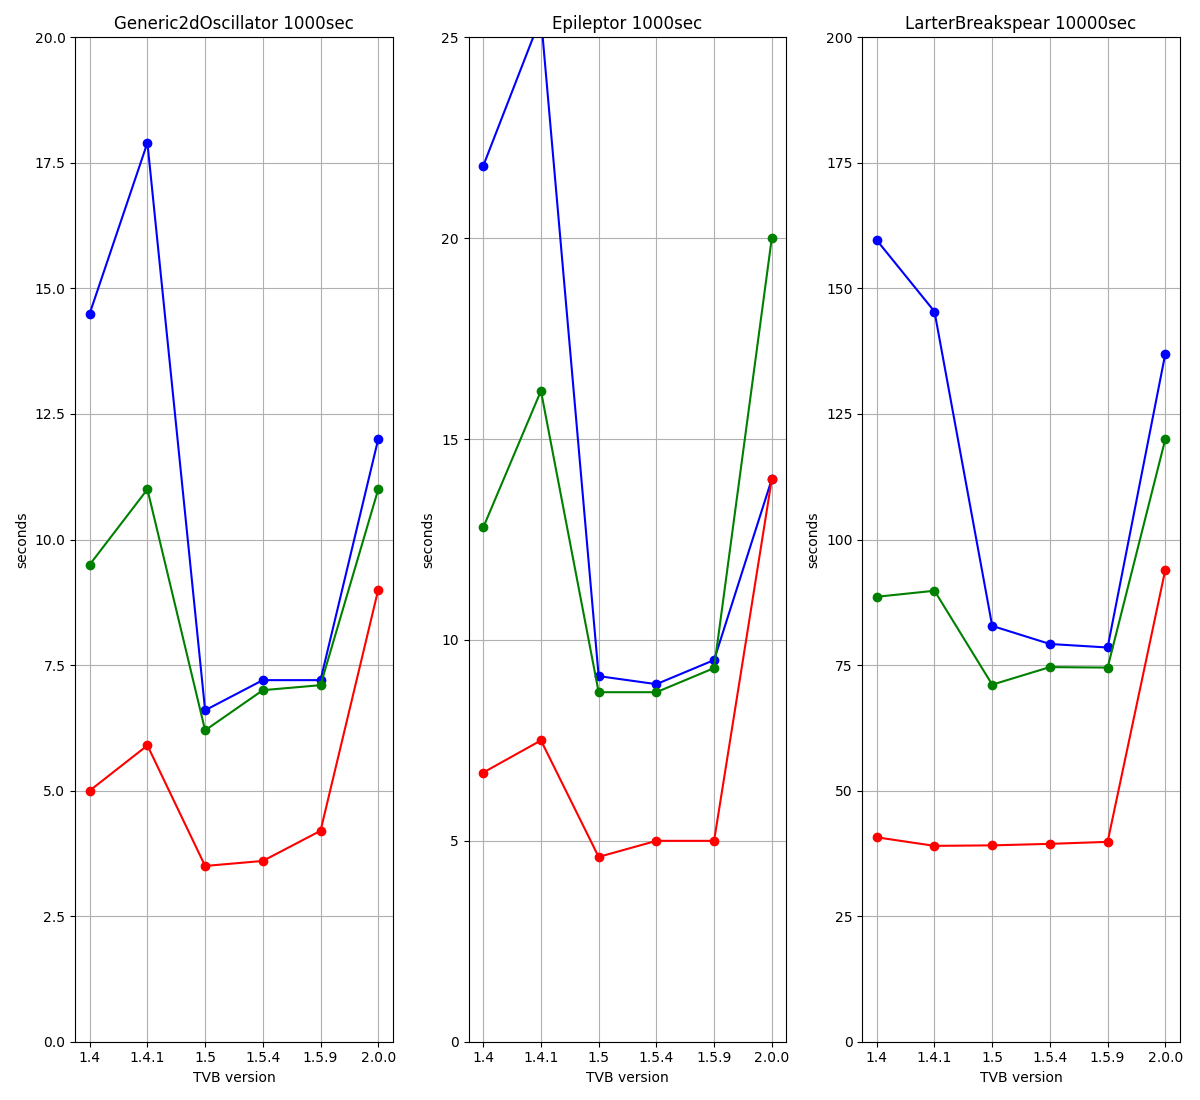
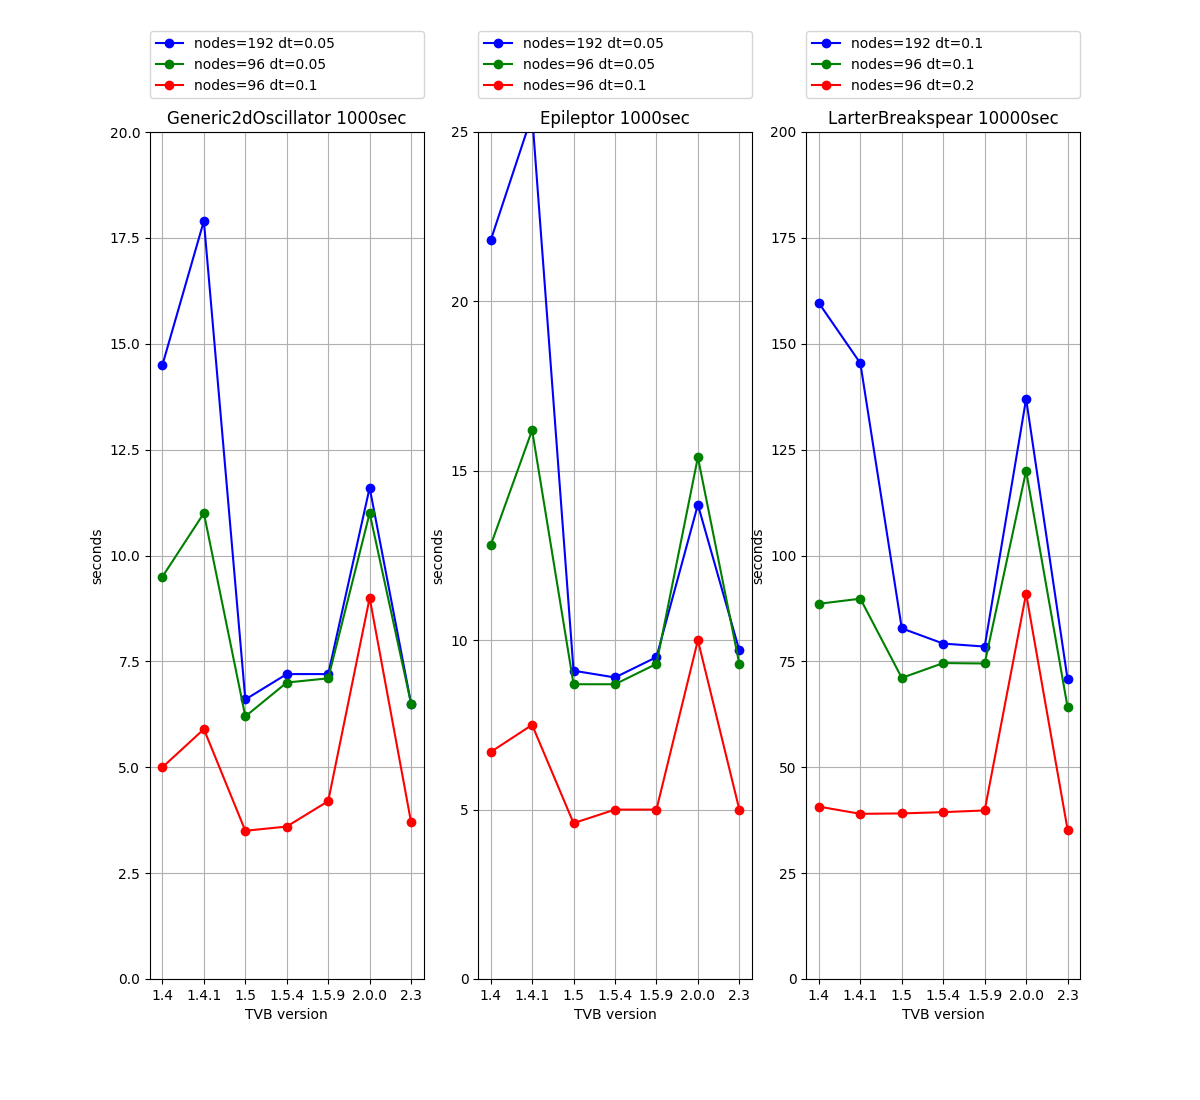
TVB-2528. Prepare figures.

diff --git a/tvb_documentation/doc_site/benchmarks/generate_benchmark_img.py b/tvb_documentation/doc_site/benchmarks/generate_benchmark_img.py
@@ -79,24 +79,24 @@ def plot_neotraits():
     figure.savefig("../../_static/benchmarks-neotraits.png")
 
 
-x = [1, 2, 3, 4, 5, 6]
-x_labels = ["1.4", "1.4.1", "1.5", "1.5.4", "1.5.9", "2.0.0"]
+x = [1, 2, 3, 4, 5, 6, 7]
+x_labels = ["1.4", "1.4.1", "1.5", "1.5.4", "1.5.9", "2.0.0", "2.3"]
 figure = pyplot.figure(figsize=(12, 11))
 
 plot(131, "Generic2dOscillator 1000sec", 20,
-     [14.5, 17.9, 6.6, 7.2, 7.2, 11.6], "nodes=192 dt=0.05",
-     [9.5, 11.0, 6.2, 7.0, 7.1, 11], "nodes=96 dt=0.05",
-     [5, 5.9, 3.5, 3.6, 4.2, 9], "nodes=96 dt=0.1")
+     [14.5, 17.9, 6.6, 7.2, 7.2, 11.6, 6.5], "nodes=192 dt=0.05",
+     [9.5, 11.0, 6.2, 7.0, 7.1, 11, 6.5], "nodes=96 dt=0.05",
+     [5, 5.9, 3.5, 3.6, 4.2, 9, 3.7], "nodes=96 dt=0.1")
 
 plot(132, "Epileptor 1000sec", 25,
-     [21.8, 25.5, 9.1, 8.9, 9.5, 14], "nodes=192 dt=0.05",
-     [12.8, 16.2, 8.7, 8.7, 9.3, 15.4], "nodes=96 dt=0.05",
-     [6.7, 7.5, 4.6, 5.0, 5.0, 10], "nodes=96 dt=0.1")
+     [21.8, 25.5, 9.1, 8.9, 9.5, 14, 9.7], "nodes=192 dt=0.05",
+     [12.8, 16.2, 8.7, 8.7, 9.3, 15.4, 9.3], "nodes=96 dt=0.05",
+     [6.7, 7.5, 4.6, 5.0, 5.0, 10, 5.0], "nodes=96 dt=0.1")
 
 plot(133, "LarterBreakspear 10000sec", 200,
-     [159.6, 145.4, 82.8, 79.2, 78.5, 137], "nodes=192 dt=0.1",
-     [88.6, 89.8, 71.1, 74.6, 74.5, 120], "nodes=96 dt=0.1",
-     [40.7, 39.0, 39.1, 39.4, 39.8, 91], "nodes=96 dt=0.2")
+     [159.6, 145.4, 82.8, 79.2, 78.5, 137, 70.8], "nodes=192 dt=0.1",
+     [88.6, 89.8, 71.1, 74.6, 74.5, 120, 64.2], "nodes=96 dt=0.1",
+     [40.7, 39.0, 39.1, 39.4, 39.8, 91, 35.3], "nodes=96 dt=0.2")
 
 pyplot.show()
 figure.savefig("../../_static/benchmarks-evolution-mac.png")

diff --git a/tvb_documentation/doc_site/benchmarks/tvb_2.3_mac.rst b/tvb_documentation/doc_site/benchmarks/tvb_2.3_mac.rst
@@ -1,0 +1,162 @@
+.. _benchmark_tvb_23:
+
+
+********************
+Benchmarks - TVB 2.3
+********************
+
+
++------------+-----------------------------------------------------------------+
+|                               System Info                                    |
++============+=================================================================+
+|OS          | OS X High Sierra  10.13.3                                            |
++------------+-----------------------------------------------------------------+
+|Memory      | 8GB DDR3  @1867MHz                                             |
++------------+-----------------------------------------------------------------+
+|Processor   | 4 x 2.9 GHz Intel Core i5                                       |
++------------+-----------------------------------------------------------------+
+|TVB version | 2.3 #16219 - Mac x64                                            |
++------------+-----------------------------------------------------------------+
+|Run on      | 28.05.2021                                                      |
++------------+-----------------------------------------------------------------+
+
+
+A standardized set of benchmarks follows. All unspecified parameters have the default values.
+For parameters that influence running times significantly at least two values were used.
+The local model parameters are usually irrelevant for the purpose of benchmarking.
+
++--------------------+------------------------------------+
+| Case A                                                  |
++====================+====================================+
+|Model               | Generic2dOscillator                |
++--------------------+------------------------------------+
+|Coupling            | Linear                             |
++--------------------+------------------------------------+
+|Dimension           | 2 state variables                  |
++--------------------+------------------------------------+
+|Integration method  | HeunDeterministic                  |
++--------------------+------------------------------------+
+|Simulation Length   | 1000 ms                            |
++--------------------+------------------------------------+
+
+
++------------------------+--------+-------+-----------+---------+-----------+
+|      Results                                                              |
++------------------------+--------+-------+-----------+---------+-----------+
+|        Model           | Sim.   | Nodes |Conduction | time    | Execution |
+|                        | Length |       |speed      | step    | time      |
++------------------------+--------+-------+-----------+---------+-----------+
+|                        |    (ms)|       |    (mm/ms)|     (ms)| min:sec   |
++========================+========+=======+===========+=========+===========+
+|    Generic2dOscillator |   1000 |    68 |      30.0 |     0.1 |   00:03.2 |
++------------------------+--------+-------+-----------+---------+-----------+
+|    Generic2dOscillator |   1000 |    68 |       3.0 |     0.1 |   00:03.1 |
++------------------------+--------+-------+-----------+---------+-----------+
+|    Generic2dOscillator |   1000 |    68 |      30.0 |    0.05 |   00:05.5 |
++------------------------+--------+-------+-----------+---------+-----------+
+|    Generic2dOscillator |   1000 |    68 |       3.0 |    0.05 |   00:05.5 |
++------------------------+--------+-------+-----------+---------+-----------+
+|    Generic2dOscillator |   1000 |    96 |      30.0 |     0.1 |   00:03.7 |
++------------------------+--------+-------+-----------+---------+-----------+
+|    Generic2dOscillator |   1000 |    96 |       3.0 |     0.1 |   00:03.7 |
++------------------------+--------+-------+-----------+---------+-----------+
+|    Generic2dOscillator |   1000 |    96 |      30.0 |    0.05 |   00:06.7 |
++------------------------+--------+-------+-----------+---------+-----------+
+|    Generic2dOscillator |   1000 |    96 |       3.0 |    0.05 |   00:06.5 |
++------------------------+--------+-------+-----------+---------+-----------+
+|    Generic2dOscillator |   1000 |   192 |      30.0 |     0.1 |   00:03.7 |
++------------------------+--------+-------+-----------+---------+-----------+
+|    Generic2dOscillator |   1000 |   192 |       3.0 |     0.1 |   00:03.6 |
++------------------------+--------+-------+-----------+---------+-----------+
+|    Generic2dOscillator |   1000 |   192 |      30.0 |    0.05 |   00:06.7 |
++------------------------+--------+-------+-----------+---------+-----------+
+|    Generic2dOscillator |   1000 |   192 |       3.0 |    0.05 |   00:06.5 |
++------------------------+--------+-------+-----------+---------+-----------+
+
+
++--------------------+------------------------------------+
+| Case B                                                  |
++====================+====================================+
+|Model               | Epileptor                          |
++--------------------+------------------------------------+
+|Coupling            | Linear                             |
++--------------------+------------------------------------+
+|Dimension           | 6 state variables                  |
++--------------------+------------------------------------+
+|Integration method  | HeunDeterministic                  |
++--------------------+------------------------------------+
+|Simulation Length   | 1000 ms                            |
++--------------------+------------------------------------+
+
+
++------------------------+--------+-------+-----------+---------+-----------+
+|      Results                                                              |
++------------------------+--------+-------+-----------+---------+-----------+
+|        Model           | Sim.   | Nodes |Conduction | time    | Execution |
+|                        | Length |       |speed      | step    | time      |
++------------------------+--------+-------+-----------+---------+-----------+
+|                        |    (ms)|       |    (mm/ms)|     (ms)| min:sec   |
++========================+========+=======+===========+=========+===========+
+|              Epileptor |   1000 |    68 |      30.0 |     0.1 |   00:03.9 |
++------------------------+--------+-------+-----------+---------+-----------+
+|              Epileptor |   1000 |    68 |       3.0 |     0.1 |   00:03.9 |
++------------------------+--------+-------+-----------+---------+-----------+
+|              Epileptor |   1000 |    68 |      30.0 |    0.05 |   00:07.1 |
++------------------------+--------+-------+-----------+---------+-----------+
+|              Epileptor |   1000 |    68 |       3.0 |    0.05 |   00:07.2 |
++------------------------+--------+-------+-----------+---------+-----------+
+|              Epileptor |   1000 |    96 |      30.0 |     0.1 |   00:05.1 |
++------------------------+--------+-------+-----------+---------+-----------+
+|              Epileptor |   1000 |    96 |       3.0 |     0.1 |   00:05.0 |
++------------------------+--------+-------+-----------+---------+-----------+
+|              Epileptor |   1000 |    96 |      30.0 |    0.05 |   00:09.4 |
++------------------------+--------+-------+-----------+---------+-----------+
+|              Epileptor |   1000 |    96 |       3.0 |    0.05 |   00:09.3 |
++------------------------+--------+-------+-----------+---------+-----------+
+|              Epileptor |   1000 |   192 |      30.0 |     0.1 |   00:05.1 |
++------------------------+--------+-------+-----------+---------+-----------+
+|              Epileptor |   1000 |   192 |       3.0 |     0.1 |   00:05.2 |
++------------------------+--------+-------+-----------+---------+-----------+
+|              Epileptor |   1000 |   192 |      30.0 |    0.05 |   00:09.7 |
++------------------------+--------+-------+-----------+---------+-----------+
+|              Epileptor |   1000 |   192 |       3.0 |    0.05 |   00:09.7 |
++------------------------+--------+-------+-----------+---------+-----------+
+
+
++--------------------+------------------------------------+
+| Case C                                                  |
++====================+====================================+
+|Model               | LarterBreakspear                   |
++--------------------+------------------------------------+
+|Coupling            | HyperbolicTangent                  |
++--------------------+------------------------------------+
+|Dimension           | 3 state variables                  |
++--------------------+------------------------------------+
+|Integration method  | HeunDeterministic                  |
++--------------------+------------------------------------+
+|Simulation Length   | 10 sec                             |
++--------------------+------------------------------------+
+|Conduction speed    | 10 mm/ms                           |
++--------------------+------------------------------------+
+
+
++------------------------+--------+-------+-----------+---------+-----------+
+|      Results                                                              |
++------------------------+--------+-------+-----------+---------+-----------+
+|        Model           | Sim.   | Nodes |Conduction | time    | Execution |
+|                        | Length |       |speed      | step    | time      |
++------------------------+--------+-------+-----------+---------+-----------+
+|                        |    (ms)|       |    (mm/ms)|     (ms)| min:sec   |
++========================+========+=======+===========+=========+===========+
+|       LarterBreakspear |  10000 |    68 |      10.0 |     0.2 |   00:31.4 |
++------------------------+--------+-------+-----------+---------+-----------+
+|       LarterBreakspear |  10000 |    68 |      10.0 |     0.1 |   00:55.9 |
++------------------------+--------+-------+-----------+---------+-----------+
+|       LarterBreakspear |  10000 |    96 |      10.0 |     0.2 |   00:35.3 |
++------------------------+--------+-------+-----------+---------+-----------+
+|       LarterBreakspear |  10000 |    96 |      10.0 |     0.1 |   01:04.2 |
++------------------------+--------+-------+-----------+---------+-----------+
+|       LarterBreakspear |  10000 |   192 |      10.0 |     0.2 |   00:37.9 |
++------------------------+--------+-------+-----------+---------+-----------+
+|       LarterBreakspear |  10000 |   192 |      10.0 |     0.1 |   01:10.8 |
++------------------------+--------+-------+-----------+---------+-----------+
